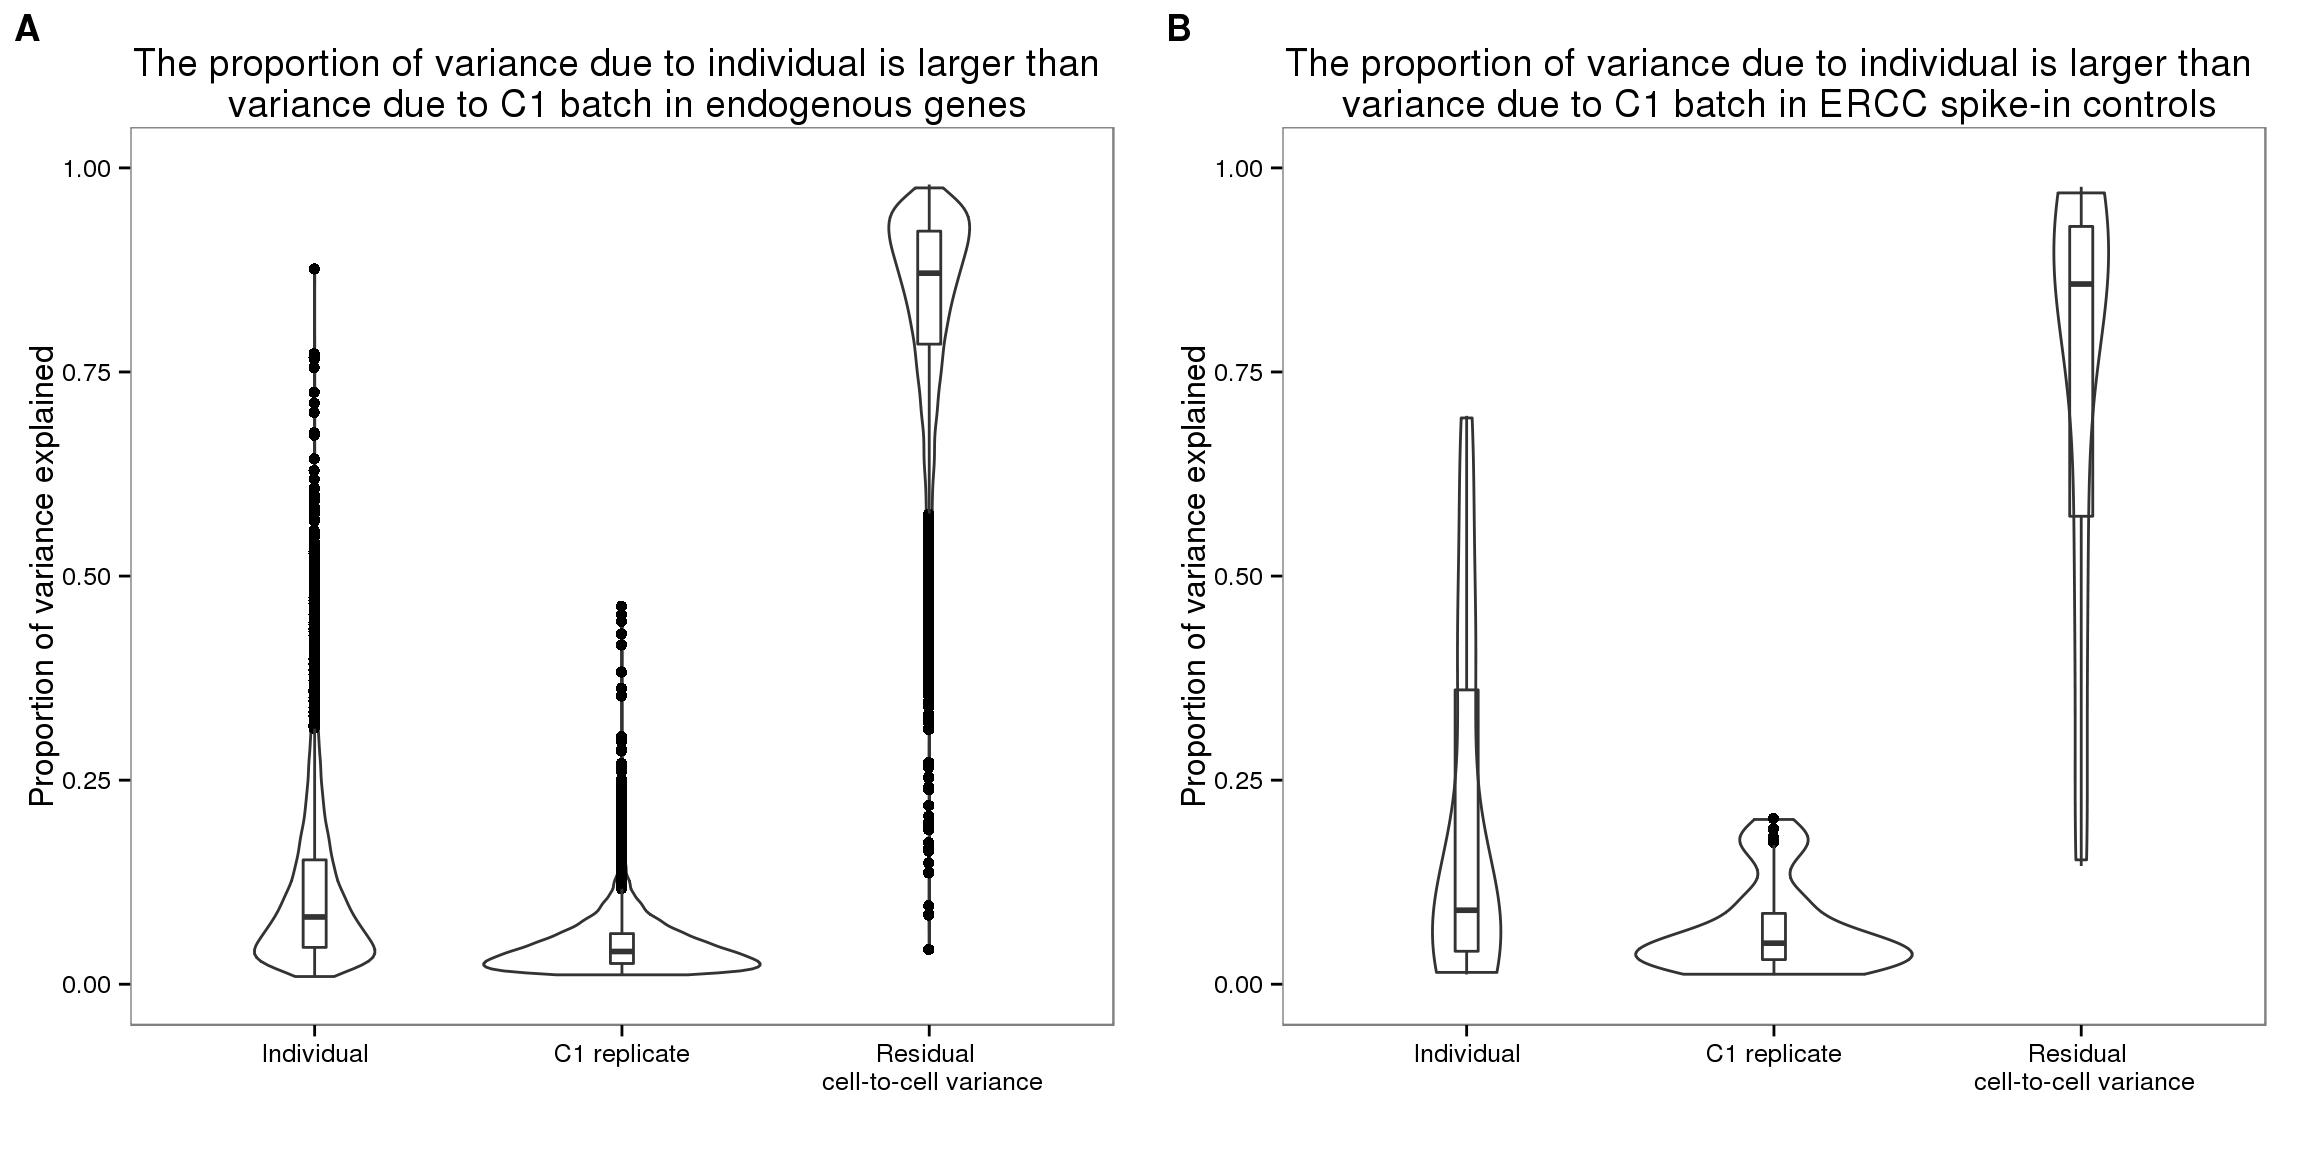
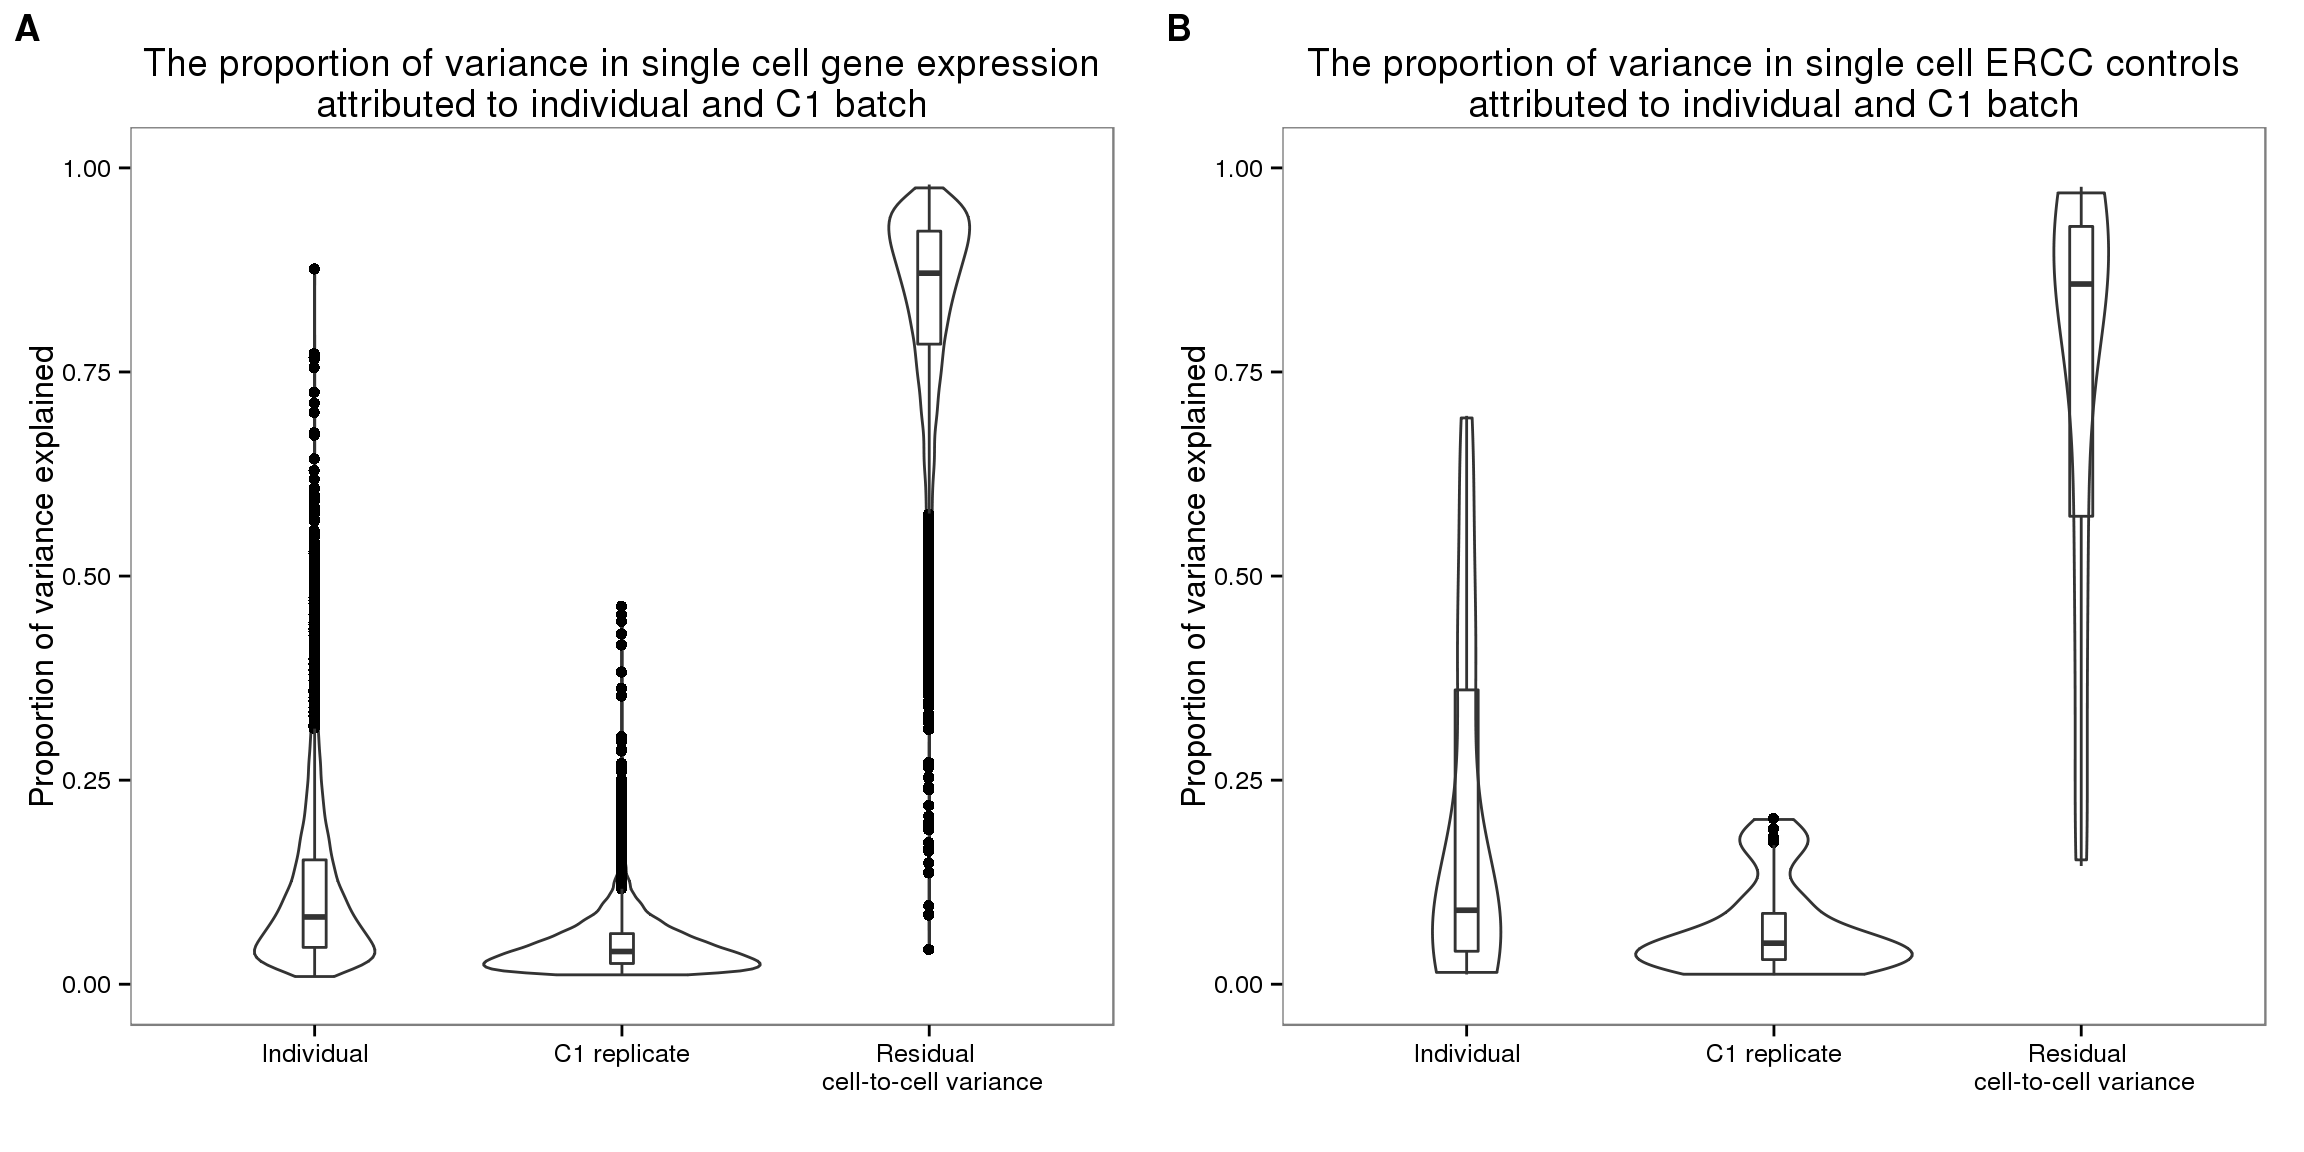
Build site.

Changed region(s): [[0.5625, 0.0312, 0.9688, 0.125], [0.0625, 0.0312, 0.4688, 0.125]]

diff --git a/analysis/paper-additional-analysis.html b/analysis/paper-additional-analysis.html
@@ -135,8 +135,8 @@ img {
 </ul>
 </div>
 
-<p><strong>Last updated:</strong> 2016-06-29</p>
-<p><strong>Code version:</strong> c59e3a495e7257caa3180d1dfdaf315cdd79d715</p>
+<p><strong>Last updated:</strong> 2016-06-30</p>
+<p><strong>Code version:</strong> dea19b121bf8542e63efe5f0f8c96c0769341e00</p>
 <pre class="r"><code>library(&quot;dplyr&quot;)
 library(&quot;ggplot2&quot;)
 library(&quot;cowplot&quot;)
@@ -708,7 +708,7 @@ cowplot::plot_grid(
     geom_boxplot(alpha = .01, width = 0.1, 
                  position = position_dodge(width = 0.9)) + 
     ylim(0,1) + xlab(&quot;&quot;) + ylab(&quot;Proportion of variance explained&quot;) +
-    labs( title = &quot;The proportion of variance due to individual is larger than \n variance due to C1 batch in endogenous genes&quot;),
+    labs( title = &quot;The proportion of variance in single cell gene expression\nattributed to individual and C1 batch&quot;),
   ggplot(
     data.frame(proportion = 
                  c(prop_list$ercc$prop_ind, 
@@ -725,7 +725,7 @@ cowplot::plot_grid(
     geom_boxplot(alpha = .01, width = 0.1, 
                  position = position_dodge(width = 0.9)) + 
     ylim(0,1) + xlab(&quot;&quot;) + ylab(&quot;Proportion of variance explained&quot;) +
-    labs( title = &quot;The proportion of variance due to individual is larger than \n variance due to C1 batch in ERCC spike-in controls&quot;),
+    labs( title = &quot;The proportion of variance in single cell ERCC controls\nattributed to individual and C1 batch&quot;),
   labels = c(&quot;A&quot;, &quot;B&quot;) )</code></pre>
 <pre><code>Warning: Removed 753 rows containing non-finite values (stat_ydensity).</code></pre>
 <pre><code>Warning: Removed 753 rows containing non-finite values (stat_boxplot).</code></pre>
